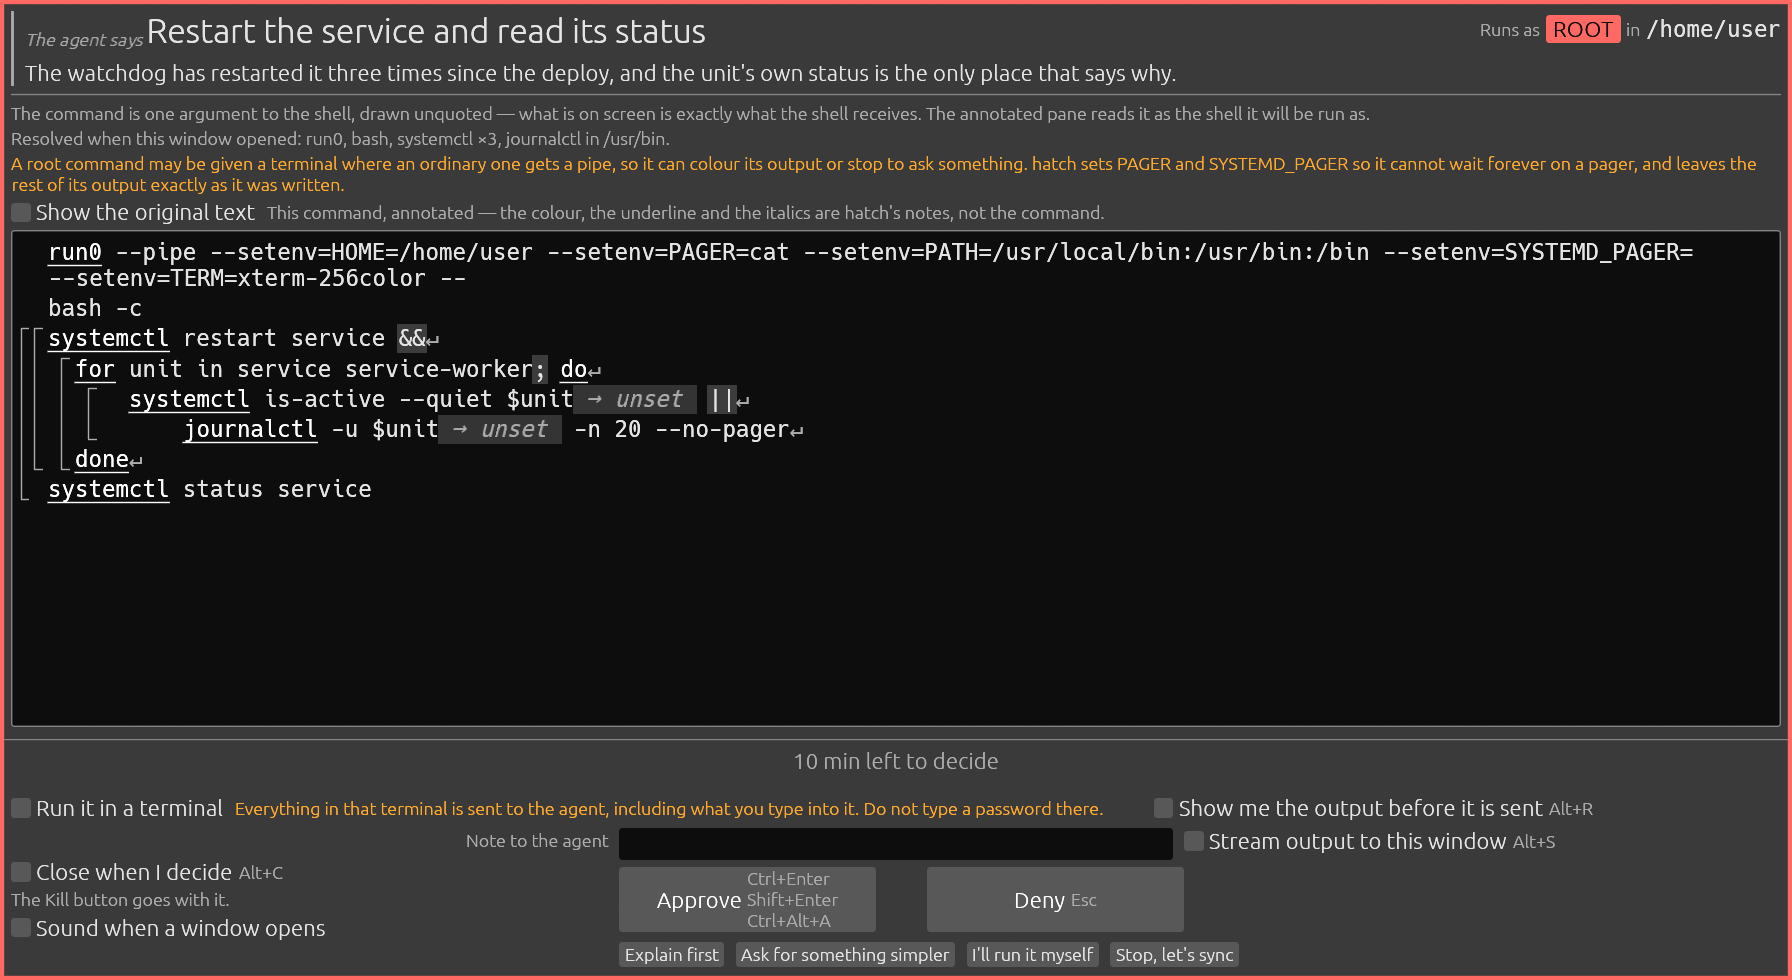
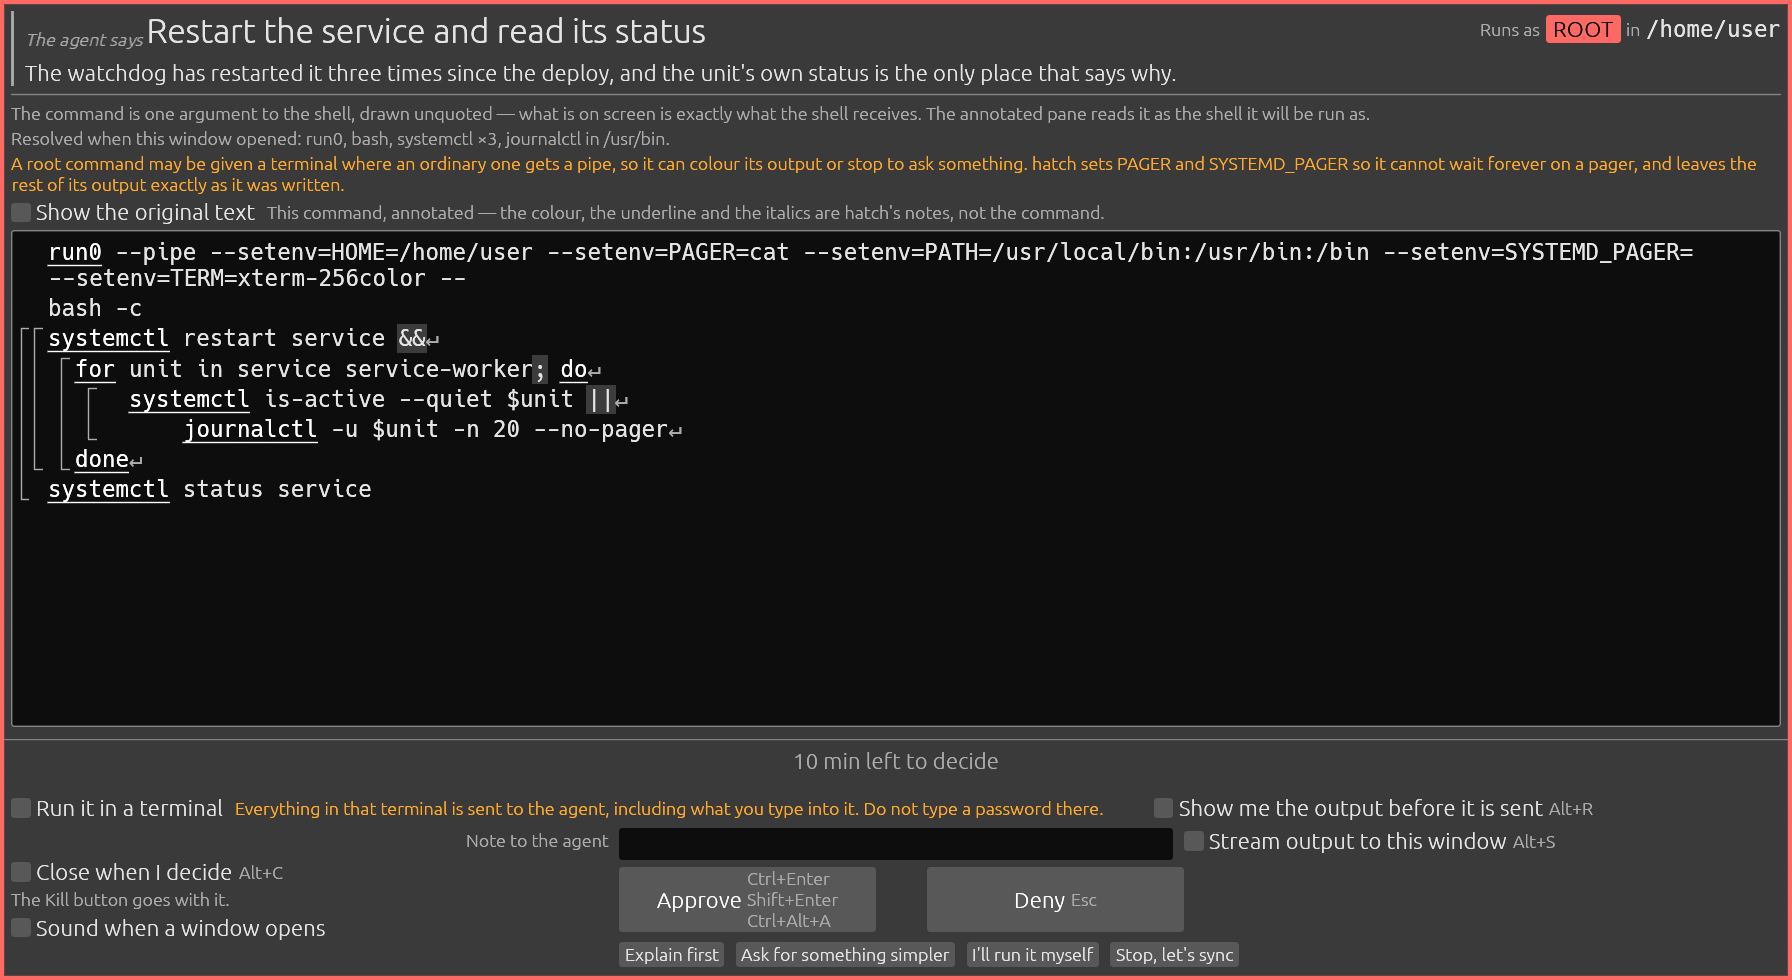
render: a loop variable is set, so it is not drawn as unset
`for unit in a b; do systemctl restart $unit; done` drew `$unit -> unset`,
because `unit` is not in the environment the child starts with. The loop sets
it, once per word, so the claim was false -- and it was in the README's most
prominent screenshot.

A `for NAME` or `select NAME` header now counts as setting NAME from the end of
its segment, to a value hatch does not work out: the body runs once per word,
so no one value is true, and the list may need a shell to expand. That is the
existing "set, and hatch is not going to guess" case, drawn as nothing at all.
The list itself still reads the name as it was before the loop, and a `$NAME`
after `done` stays unclaimed, because the loop leaves it holding its last value.

The arithmetic form, `for ((i = 0; ...))`, is not handled and still draws `$i`
as unset. Knowing which names it sets means reading the arithmetic.

One test pinned the old behaviour, with a comment calling `None` right for a
loop variable. The window draws `None` as "unset", so that comment is updated
to the new rule. The README's root shot is retaken to match.

Changed region(s): [[0.2188, 0.3673, 0.4375, 0.4592]]

diff --git a/src/render/command.rs b/src/render/command.rs
@@ -2127,6 +2127,10 @@ fn assignments(command: &str, env: &BTreeMap<String, String>) -> Vec<Assignment>
             continue;
         }
         let words: Vec<&str> = command[segment.clone()].split_ascii_whitespace().collect();
+        if let Some(name) = loop_name(&words) {
+            out.push(Assignment { at: segment.end, name: name.to_string(), value: None });
+            continue;
+        }
         if words.is_empty() || !words.iter().all(|word| assigned_name(word).is_some()) {
             continue;
         }
@@ -2141,6 +2145,37 @@ fn assignments(command: &str, env: &BTreeMap<String, String>) -> Vec<Assignment>
         }
     }
     out
+}
+
+/// The name a `for` or `select` header sets, or `None` if `words` is not one.
+///
+/// `for unit in a b; do systemctl restart $unit; done` drew `$unit` as
+/// **unset**, because `unit` is not in the environment the child starts with.
+/// It is set, once per pass, by the loop itself -- so the claim was false in
+/// exactly the way [`assignments`] exists to stop.
+///
+/// What it is set to is not drawn. The body runs once per word, so a `$unit`
+/// in it is several values at once, and a chip can hold one; the list may
+/// also need a shell to work out (`in $(ls)`, `in *.txt`). So the name counts
+/// as *set, and hatch is not going to guess* -- nothing on it at all.
+///
+/// The header's segment is where it takes effect, which is also the shell's
+/// answer: `for x in $x` reads the old `x` in its list, and a loop leaves the
+/// name holding its last value once it is done, so a `$x` after `done` is
+/// still not unset.
+///
+/// `for ((i = 0; …))` is not this form -- the word after `for` is not a name
+/// -- and is not handled: its `$i` is still drawn as unset, which is the same
+/// false claim. Which names an arithmetic header sets needs the arithmetic
+/// read, and that is a second parser rather than one more keyword.
+fn loop_name<'a>(words: &[&'a str]) -> Option<&'a str> {
+    let [keyword, name, ..] = words else {
+        return None;
+    };
+    let mut chars = name.chars();
+    let first = chars.next()?;
+    let named = (first.is_ascii_alphabetic() || first == '_') && chars.all(is_name_char);
+    (matches!(*keyword, "for" | "select") && named).then_some(*name)
 }
 
 /// The name a word assigns to, or `None` if it does not assign at all.
@@ -4481,6 +4516,54 @@ mod tests {
         // a `;` in one from being a separator stops this.
         let spans = rendered("cat <<'EOF' > f\nA=1\nEOF\necho $A", &env(&[]));
         assert_eq!(variables(&spans), vec![("$A", None)], "a config file set a variable");
+    }
+
+    #[test]
+    fn a_loop_variable_is_not_claimed_either_way() {
+        // The shape the README's root shot showed: `$unit -> unset` inside
+        // the loop that sets it. It is set, to several values in turn, so
+        // neither `unset` nor any one value is true -- nothing is drawn.
+        for command in [
+            "for unit in a b; do systemctl restart $unit; done",
+            "for unit in a b\ndo\n  echo $unit\ndone",
+            "for unit; do echo $unit; done",
+            "select unit in a b; do echo $unit; done",
+            // Once the loop is over the name holds its last value.
+            "for unit in a b; do :; done; echo $unit",
+        ] {
+            let spans = rendered(command, &env(&[]));
+            let said = variables(&spans);
+            assert!(said.is_empty(), "{command:?} claimed something about $unit: {said:?}");
+        }
+        // Not even when the environment happens to hold the name: the loop
+        // sets it second, so the environment's value is not the one used.
+        let spans = rendered("for unit in a; do echo $unit; done", &env(&[("unit", "x")]));
+        assert_eq!(variables(&spans), vec![]);
+    }
+
+    #[test]
+    fn a_loop_list_still_reads_the_name_as_it_was_before_the_loop() {
+        // The list is expanded before the first pass sets anything.
+        let spans = rendered("for x in $x; do :; done", &env(&[("x", "/old")]));
+        assert_eq!(variables(&spans), vec![("$x", Some("/old"))]);
+    }
+
+    #[test]
+    fn only_a_loop_header_sets_a_loop_name() {
+        // `for` as an argument, a quoted `for`, and a `for` in a
+        // here-document body set nothing.
+        for command in [
+            "echo for unit; echo $unit",
+            "\"for\" unit in a; echo $unit",
+            "cat <<'EOF' > f\nfor unit in a\nEOF\necho $unit",
+        ] {
+            let spans = rendered(command, &env(&[]));
+            assert!(
+                variables(&spans).contains(&("$unit", None)),
+                "{command:?} was read as setting unit: {:?}",
+                variables(&spans)
+            );
+        }
     }
 
     #[test]

diff --git a/src/render/mod.rs b/src/render/mod.rs
@@ -394,10 +394,9 @@ mod tests {
             resolved,
             vec![
                 ("$HOME", &SpanKind::Variable { resolved: Some("/home/x".to_string()) }),
-                // The loop variable is the child's own and hatch does not set
-                // it, which `None` says and is right to say: see
-                // `SpanKind::Variable`.
-                ("$f", &SpanKind::Variable { resolved: None }),
+                // No `$f`: the loop sets it, to each word in turn, so it is
+                // neither unset nor any one value and nothing is drawn on it.
+                // See `command::loop_name`.
             ],
             "{resolved:?}"
         );
